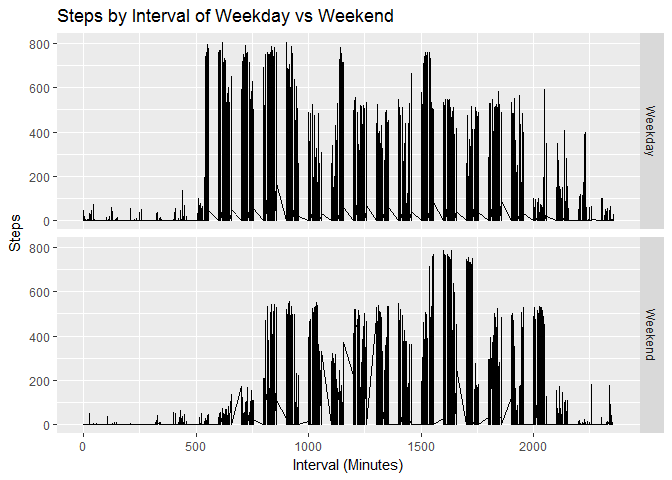
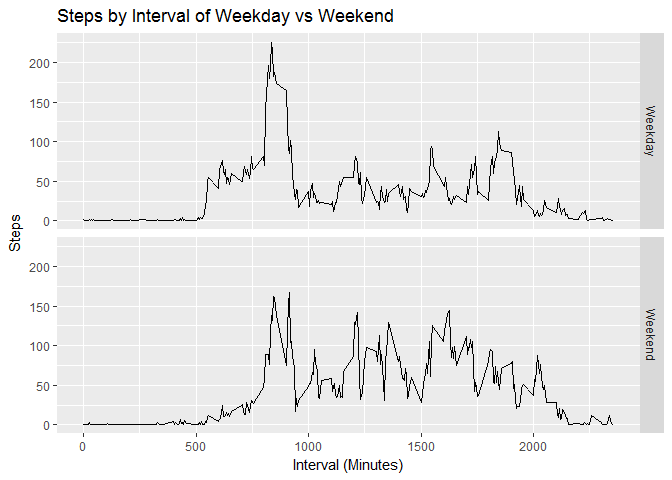
Add files via upload

diff --git a/PA1_template.html b/PA1_template.html
@@ -194,10 +194,12 @@ steps_total_imputed_median = median(steps_total_imputed$steps)</code></pre>
 weekday &lt;- c(&quot;Monday&quot;, &quot;Tuesday&quot;, &quot;Wednesday&quot;, &quot;Thursday&quot;, &quot;Friday&quot;)
 #add new column that differentiates between weekday and weekend
 imputed_data$day &lt;- ifelse(weekdays(as.Date(imputed_data$date)) %in% weekday, &quot;Weekday&quot;, &quot;Weekend&quot;)
+#average number of steps per day
+steps_mean_imputed &lt;- aggregate(steps ~ interval + day, imputed_data, mean)
 #create faceted time series plot
-p2 &lt;- ggplot(imputed_data, aes(interval, steps))
+p2 &lt;- ggplot(steps_mean_imputed, aes(interval, steps))
 p2 + geom_line() + labs(title = &quot;Steps by Interval of Weekday vs Weekend&quot;) + xlab(&quot;Interval (Minutes)&quot;) +  ylab(&quot;Steps&quot;) + facet_grid(day~.)</code></pre>
[2 lines of base64/hex data omitted]
 </div>
 </div>
 

diff --git a/PA1_template.md b/PA1_template.md
@@ -103,8 +103,10 @@ The total number of rows with `NA` is equal to 2304.  The new mean with imputed 
 weekday <- c("Monday", "Tuesday", "Wednesday", "Thursday", "Friday")
 #add new column that differentiates between weekday and weekend
 imputed_data$day <- ifelse(weekdays(as.Date(imputed_data$date)) %in% weekday, "Weekday", "Weekend")
+#average number of steps per day
+steps_mean_imputed <- aggregate(steps ~ interval + day, imputed_data, mean)
 #create faceted time series plot
-p2 <- ggplot(imputed_data, aes(interval, steps))
+p2 <- ggplot(steps_mean_imputed, aes(interval, steps))
 p2 + geom_line() + labs(title = "Steps by Interval of Weekday vs Weekend") + xlab("Interval (Minutes)") +  ylab("Steps") + facet_grid(day~.)
 ```
 
